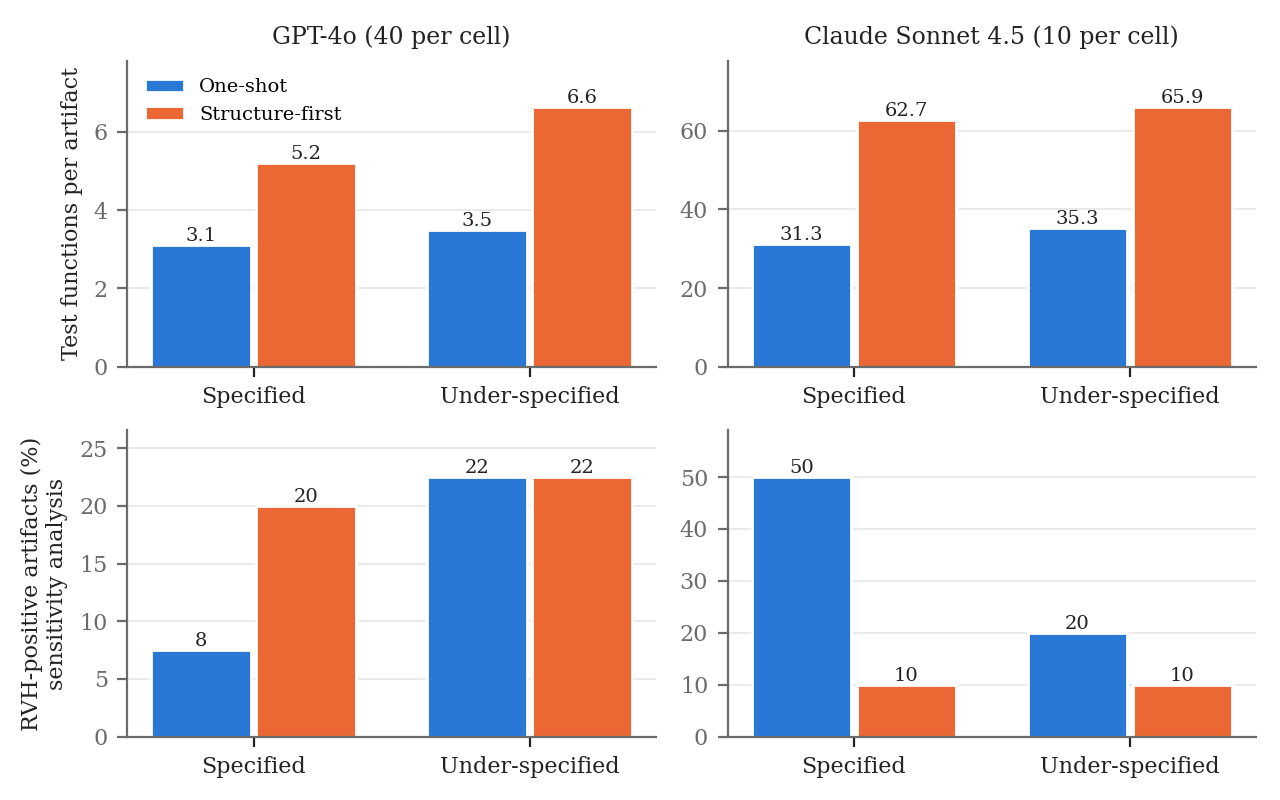
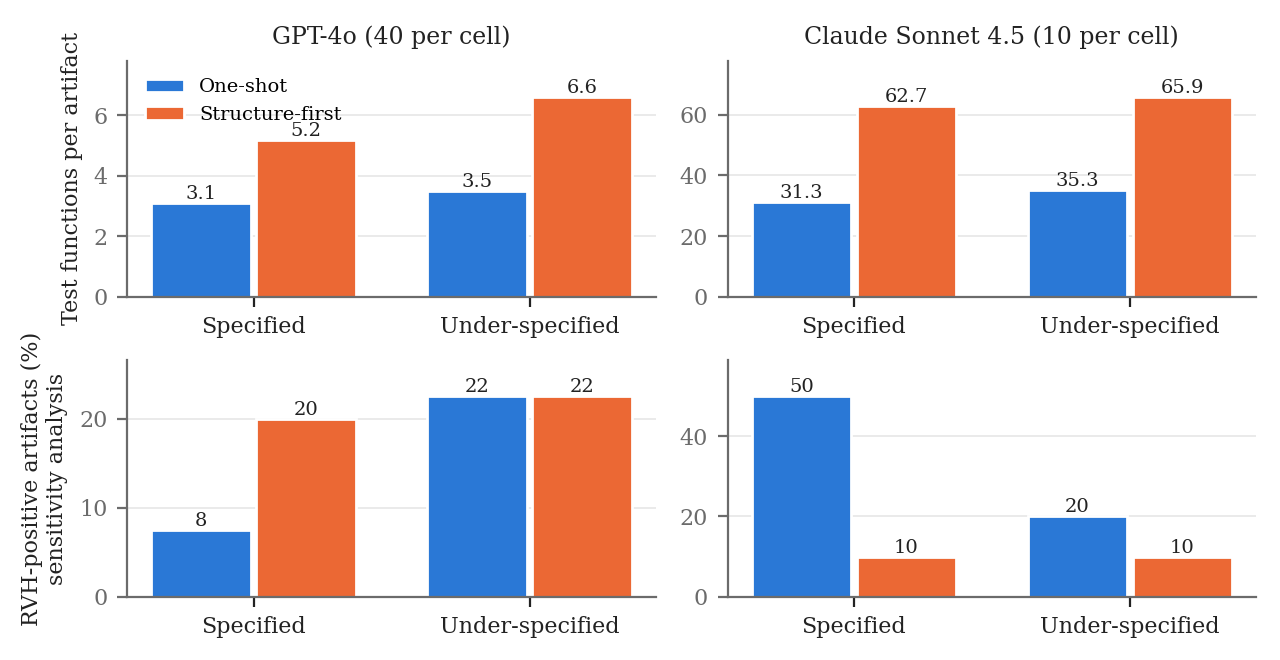
Figure 1: shorter height to fit the 10-page limit

diff --git a/scripts/make_figure.py b/scripts/make_figure.py
@@ -19,7 +19,7 @@ INK, MUTED = "#222222", "#6b6b6b"
 
 plt.rcParams.update({"font.family": "serif", "font.size": 8, "axes.edgecolor": MUTED,
                      "axes.labelcolor": INK, "xtick.color": INK, "ytick.color": MUTED})
-fig, axes = plt.subplots(2, 2, figsize=(6.4, 4.0))
+fig, axes = plt.subplots(2, 2, figsize=(6.4, 3.3))
 w = 0.36
 
 
